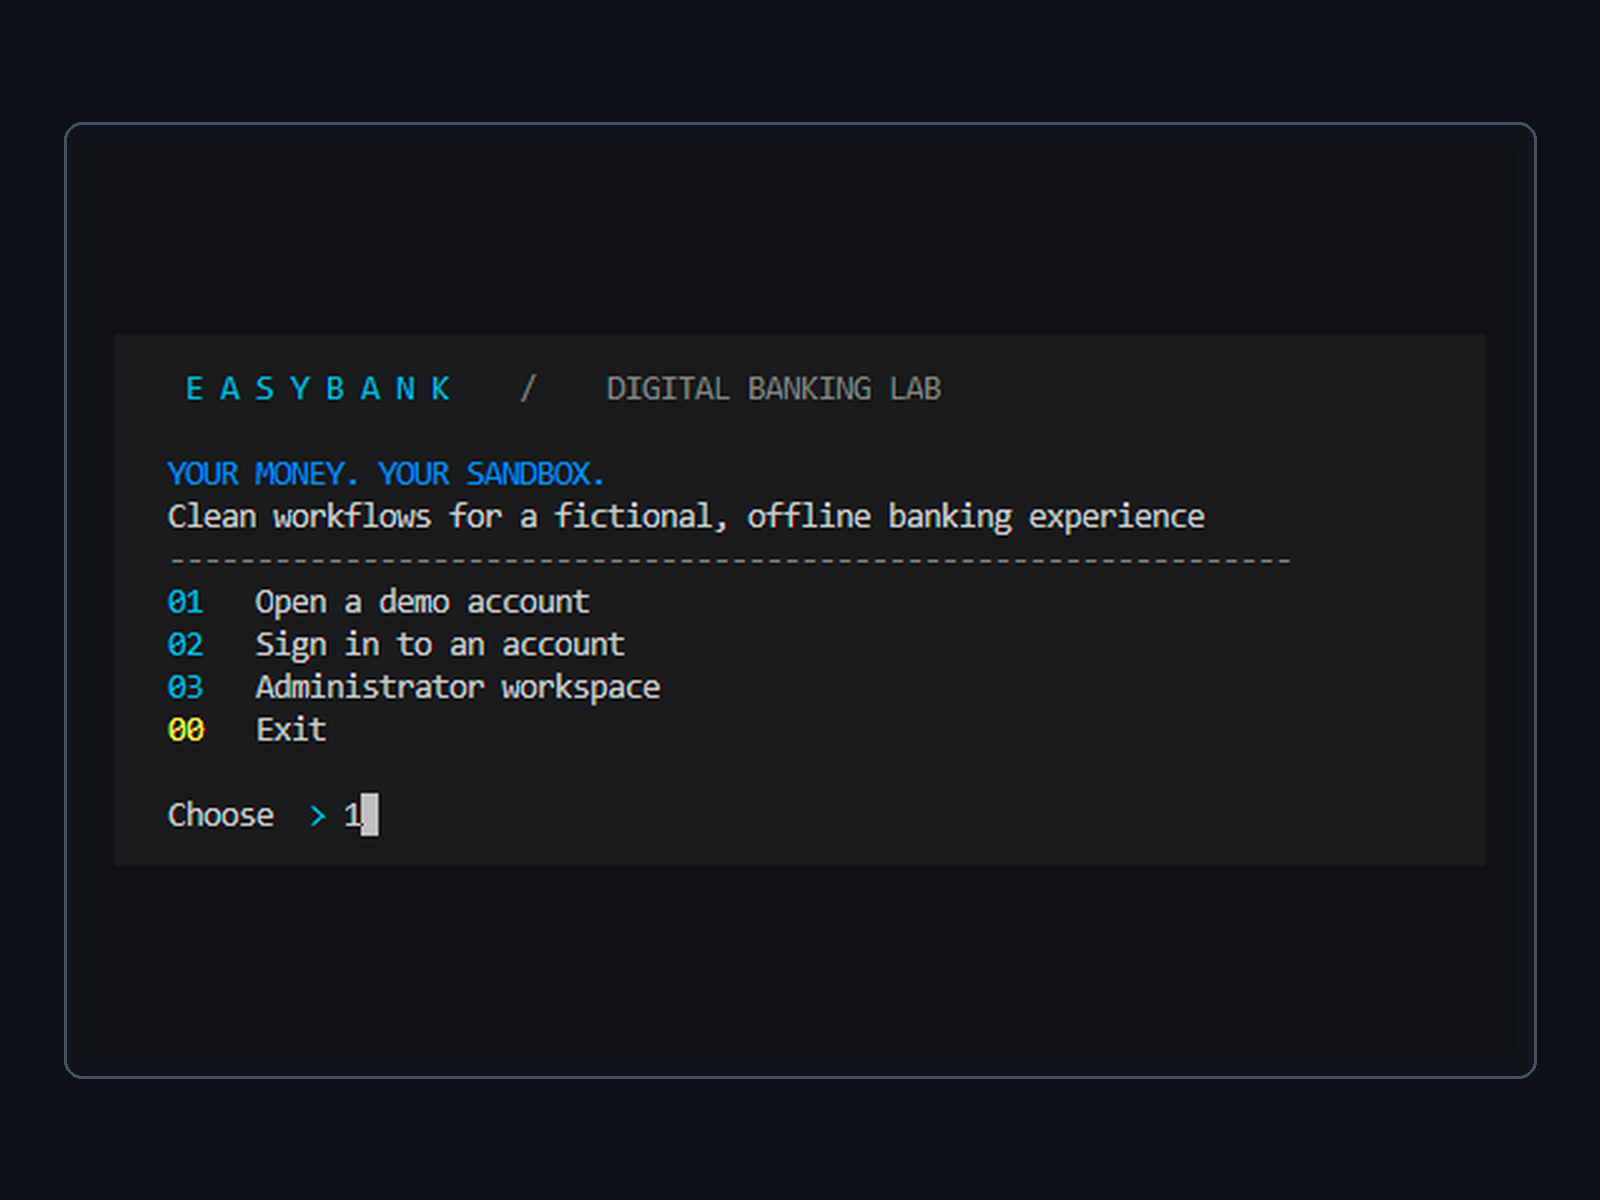
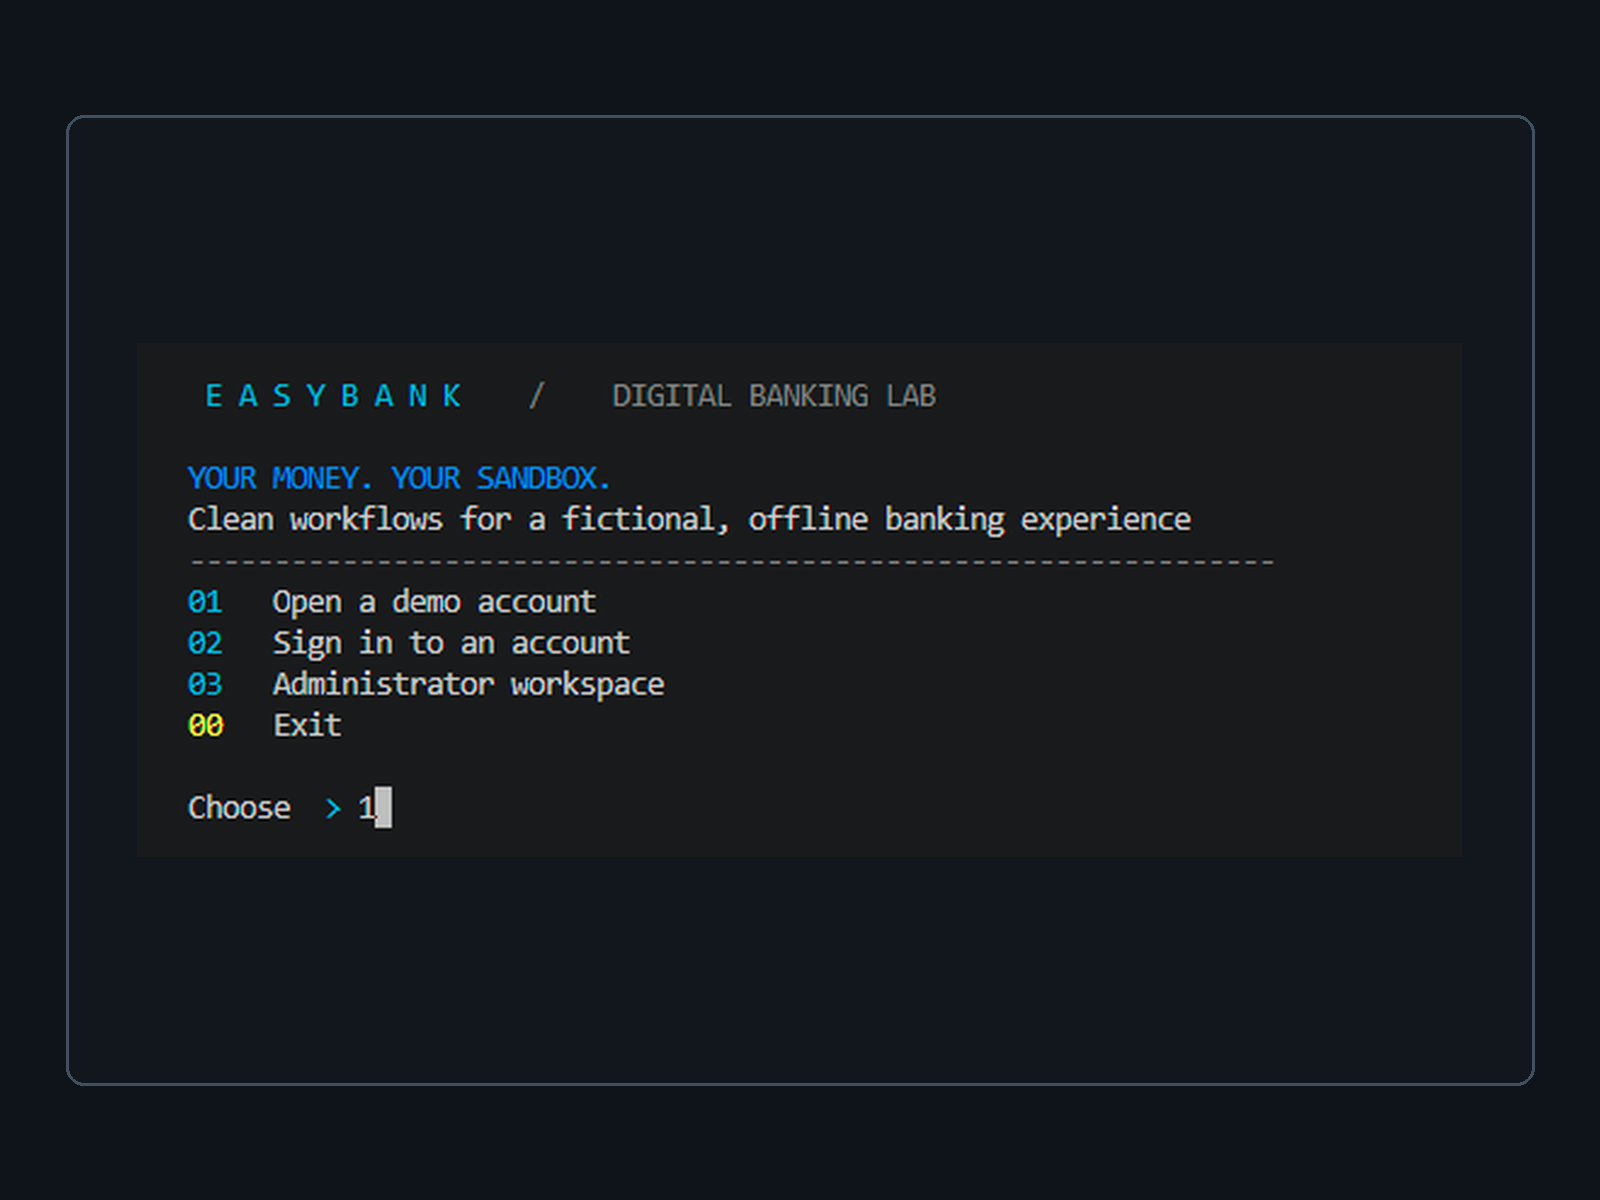
Curate EasyBank authentic application screenshots

diff --git a/README.md b/README.md
@@ -78,43 +78,35 @@ Windows local tests are run automatically by `Run-Local.ps1` after a successful 
 Originally a small C++/SQLite classroom banking project, revised for safer money handling, reliable persistence, simpler navigation and a modern technical console presentation. Screenshots should be taken from the **real running application**; no fabricated application captures are provided. The original local database and Visual Studio caches are intentionally excluded.
 
 <!-- EASYBANK_PORTFOLIO_GALLERY_BEGIN -->
-## Application gallery
+## Application screenshots
 
-These are **actual EasyBank C++ terminal captures**, framed to a consistent 1600 × 1200 size for readability. The application is a fictional, offline banking simulator, not financial software for real accounts.
+Five **real captures** from the EasyBank C++17/SQLite terminal application, displayed on matching 1600 × 1200 canvases. Screens are taken from fictional local accounts and transactions; EasyBank is an educational offline simulation, not a real banking service.
 
 ### Main menu
 
 ![EasyBank main menu](screenshots/01-main-menu.png)
 
-### Administrator and sample-data workflow
+### Administrator overview and account directory
 
-![EasyBank loading fictional demo accounts](screenshots/03-admin-sample-setup.png)
+Three fictional accounts with balances and ledger activity.
 
-### Account directory
+![EasyBank admin overview and account directory](screenshots/02-admin-overview-and-directory.png)
 
-![EasyBank account directory showing three fictional accounts](screenshots/04-admin-directory.png)
+### Customer dashboard
 
-<details>
-<summary>More real application captures: validation and login feedback</summary>
+Savings account, available balance, and account operations.
 
-These views illustrate input validation and generic login-failure handling; they are not successful account-opening or authentication examples.
+![EasyBank customer dashboard](screenshots/03-customer-dashboard.png)
 
-![EasyBank account creation validation](screenshots/02-account-validation.png)
+### Completed simulated transfer
 
-![EasyBank login feedback](screenshots/05-login-feedback.png)
+An accepted $125.00 transfer from `alex_demo` to account `1002` (`sam_demo`).
 
-</details>
+![EasyBank successful transfer](screenshots/04-transfer-confirmed.png)
 
-<details>
-<summary>Portfolio presentation mockups (illustrative, not literal application screenshots)</summary>
+### Account statement
 
-The following **stylized, AI-generated presentation images** are for portfolio design only. They may differ from the actual terminal output; use the real captures above to evaluate functionality.
+The captured statement shows a $1,500 deposit and **two separate $125 transfers** at different timestamps. These represent recorded transactions, not duplicated screenshots.
 
-![EasyBank main menu presentation](showcase-mockups/01-main-menu-concept.png)
-![EasyBank account validation presentation](showcase-mockups/02-account-validation-concept.png)
-![EasyBank administrator setup presentation](showcase-mockups/03-admin-setup-concept.png)
-![EasyBank account directory presentation](showcase-mockups/04-admin-directory-concept.png)
-![EasyBank login feedback presentation](showcase-mockups/05-login-feedback-concept.png)
-
-</details>
+![EasyBank account statement](screenshots/05-transaction-statement.png)
 <!-- EASYBANK_PORTFOLIO_GALLERY_END -->
